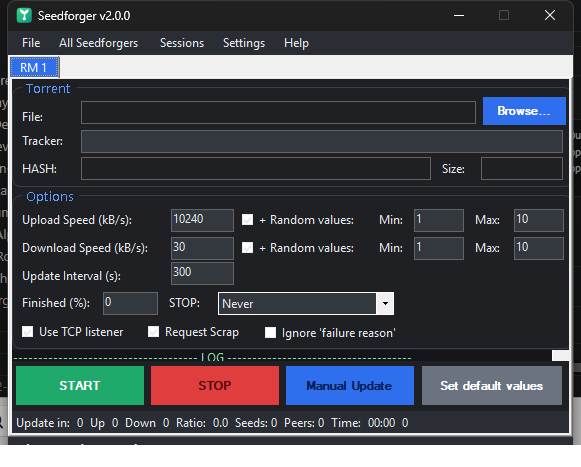
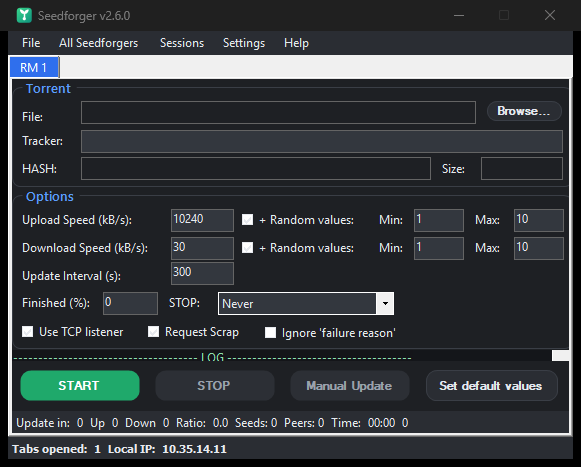
README: unify button styling in shots, drop the French screenshot
- Recapture the light & dark main window from the current build: only
  START carries colour (green); STOP, Manual Update and Set default
  are now quiet neutral/ghost buttons — the old shots showed a stale
  green/red/blue/grey rainbow from before the ghost-button change.
  Fresh shots also show the correct v2.6.0 title.
- Remove the French UI screenshot: the whole GitHub is in English, so a
  French shot was out of place. Localization stays documented as a
  feature; the gallery is now dark / light / campaign builder.

diff --git a/README.md b/README.md
@@ -20,16 +20,14 @@ A modern, from-the-ground-up **.NET 8** revival of the classic *RatioMaster* —
     <td><img src="docs/screenshots/main-light.png" alt="Seedforger — light theme" width="420"></td>
   </tr>
   <tr>
-    <td align="center"><em>Dark theme — START / STOP / manual announce</em></td>
-    <td align="center"><em>Light theme — one tab per torrent</em></td>
+    <td align="center"><em>Dark theme — one tab per torrent</em></td>
+    <td align="center"><em>Light theme — same, your choice</em></td>
   </tr>
   <tr>
-    <td><img src="docs/screenshots/campaign-builder.png" alt="Visual campaign builder" width="420"></td>
-    <td><img src="docs/screenshots/i18n-french.png" alt="French UI" width="420"></td>
+    <td colspan="2" align="center"><img src="docs/screenshots/campaign-builder.png" alt="Visual campaign builder" width="320"></td>
   </tr>
   <tr>
-    <td align="center"><em>Visual campaign builder — a goal, no JSON</em></td>
-    <td align="center"><em>Full English / French UI</em></td>
+    <td colspan="2" align="center"><em>Visual campaign builder — set a goal, no JSON</em></td>
   </tr>
 </table>
 